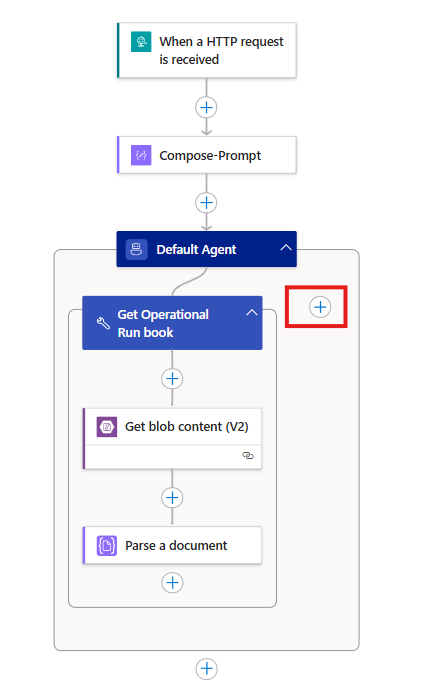
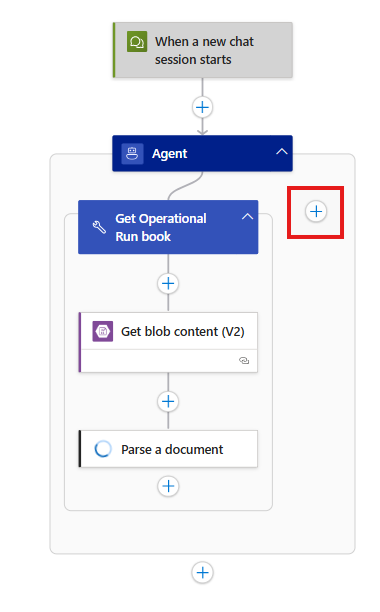
Section 8:  - updated images for service now connection and list records actions

diff --git a/docs/logic-apps-agent-in-a-day/09_add_tool_servicenow_create_incident_to_agentloop.md b/docs/logic-apps-agent-in-a-day/09_add_tool_servicenow_create_incident_to_agentloop.md
@@ -89,16 +89,15 @@ In this module we will take the ServiceNow Create Incident workflow and add it a
 
 ## Test your agent
 
-1. Click `Run` to start your workflow and initiate the agent session.
+1. Click `Chat` to start your workflow and initiate the agent session.
 
-    ![Run Workflow](./images/09_12_run_workflow.png "run workflow")
+    ![Chat Workflow](./images/09_12_run_workflow.png "chat workflow")
 
-    You will receive a notification when the workflow has successfully started  
-    ![Workflow Started](./images/09_13_workflow_started.png "workflow started")
+    This will open the chat interface where you will see list of all your previous conversations with this agent.
 
-1. Navigate to your **Run History** and locate your **Running** instance. Click on the identifier to view the executed steps and agent chat session.
+    Let's create a new chat and start the process over again:
+    Click `+ New Chat`
 
-    ![Workflow Run History](./images/09_14_workflow_run_history.png "workflow run history")
 
 1. Enter your issue for the agent to take action on:
 
@@ -130,8 +129,6 @@ In this module we will take the ServiceNow Create Incident workflow and add it a
   - Navigate to your ServiceNow developer portal
   - Use the Incident Ticket Number from the Agent's response to search for the incident in ServiceNow
 
-    ![ServiceNow Incident Details](./images/09_17_servnicenow_incident_detailspng.png "servicenow incident details")
-
-> **Note:** When you are done testing, go to your workflow run in Logic Apps and click **Cancel run** to stop the workflow instance.
+    ![ServiceNow Incident Details](./images/09_17_servnicenow_incident_details.png "servicenow incident details")
 
 > **Tip:** If you do not see the **Description** field in your ServiceNow incident, you may need to configure the Incident Properties in your ServiceNow instance to display it. 
